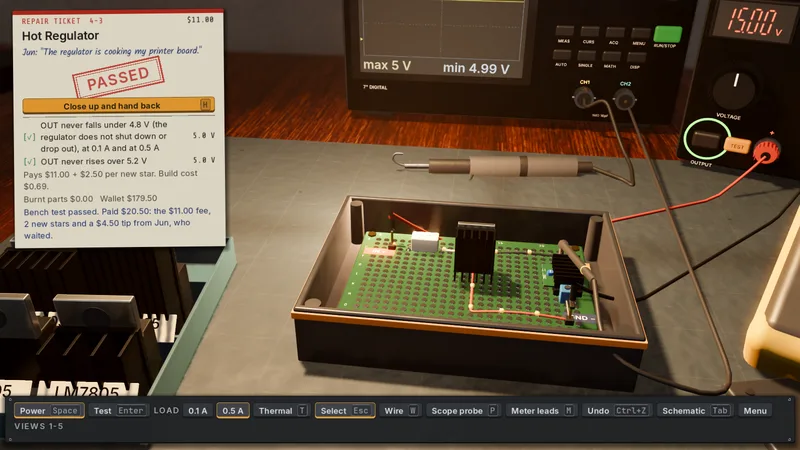
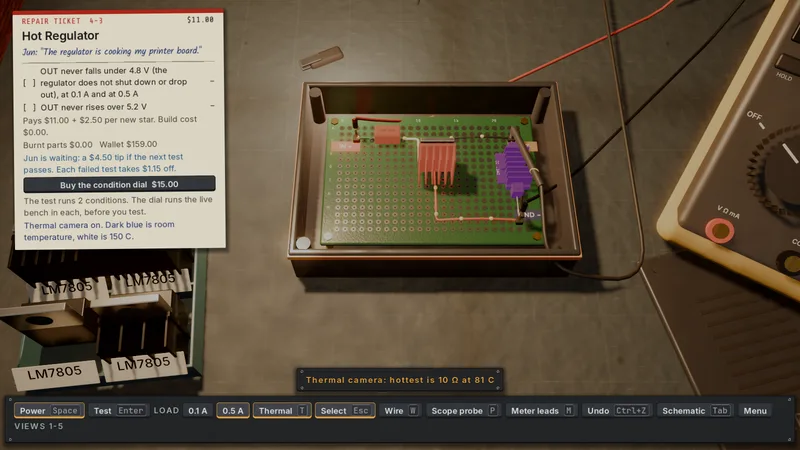
CIRCUITS card: the thermal shot shows the thermal camera (the earlier one showed the normal bench); alt text says what the frame shows.
Claude-Session: https://claude.ai/code/session_01LLtMdbo6QrqLGE18L1gpTt

diff --git a/index.html b/index.html
@@ -138,7 +138,7 @@
         <p class="links"><a href="https://github.com/blackmetaltech/circuits/releases/latest">Download</a><a href="https://circuits.blackmetal.tech/">Site</a><a href="https://circuits.blackmetal.tech/wiki/">Wiki</a><a href="https://github.com/blackmetaltech/circuits">Source</a></p>
       </div>
       <div class="more">
-        <a class="shot" href="https://circuits.blackmetal.tech/" target="_blank" rel="noopener" aria-label="Open the CIRCUITS site in a new tab"><img src="assets/shots/circuits-thermal.webp" width="800" height="450" loading="lazy" alt="The thermal camera on a hot regulator: the 7805 at 87 C glows orange next to a cool spare"></a>
+        <a class="shot" href="https://circuits.blackmetal.tech/" target="_blank" rel="noopener" aria-label="Open the CIRCUITS site in a new tab"><img src="assets/shots/circuits-thermal.webp" width="800" height="450" loading="lazy" alt="The thermal camera on a hot regulator board: the heatsink and the load glow warm, a spare at room temperature stays purple"></a>
         <a class="shot" href="https://circuits.blackmetal.tech/" target="_blank" rel="noopener" aria-label="Open the CIRCUITS site in a new tab"><img src="assets/shots/circuits-flash.webp" width="800" height="450" loading="lazy" alt="A flash timer fixed on the bench: the scope shows the capacitor charging curve inside its tolerance tube, the ticket stamped PASSED"></a>
       </div>
     </div>
